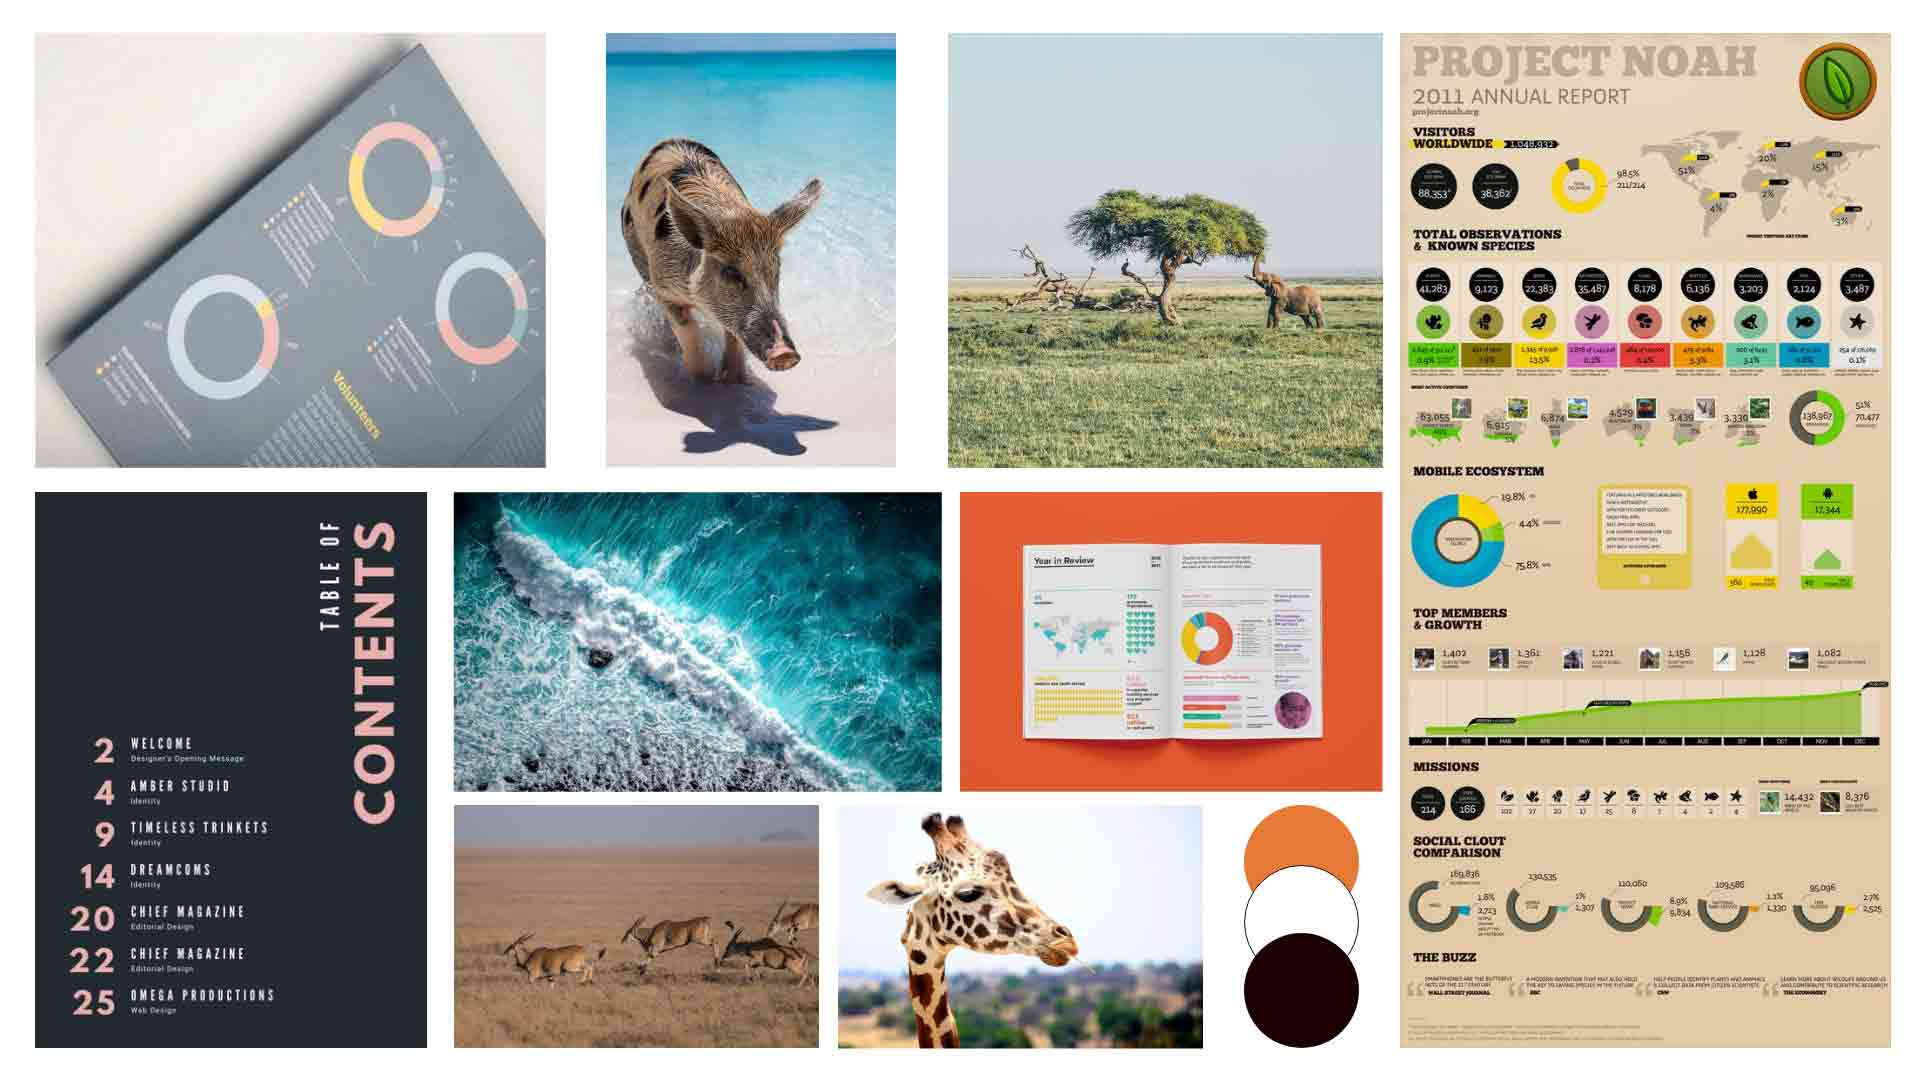
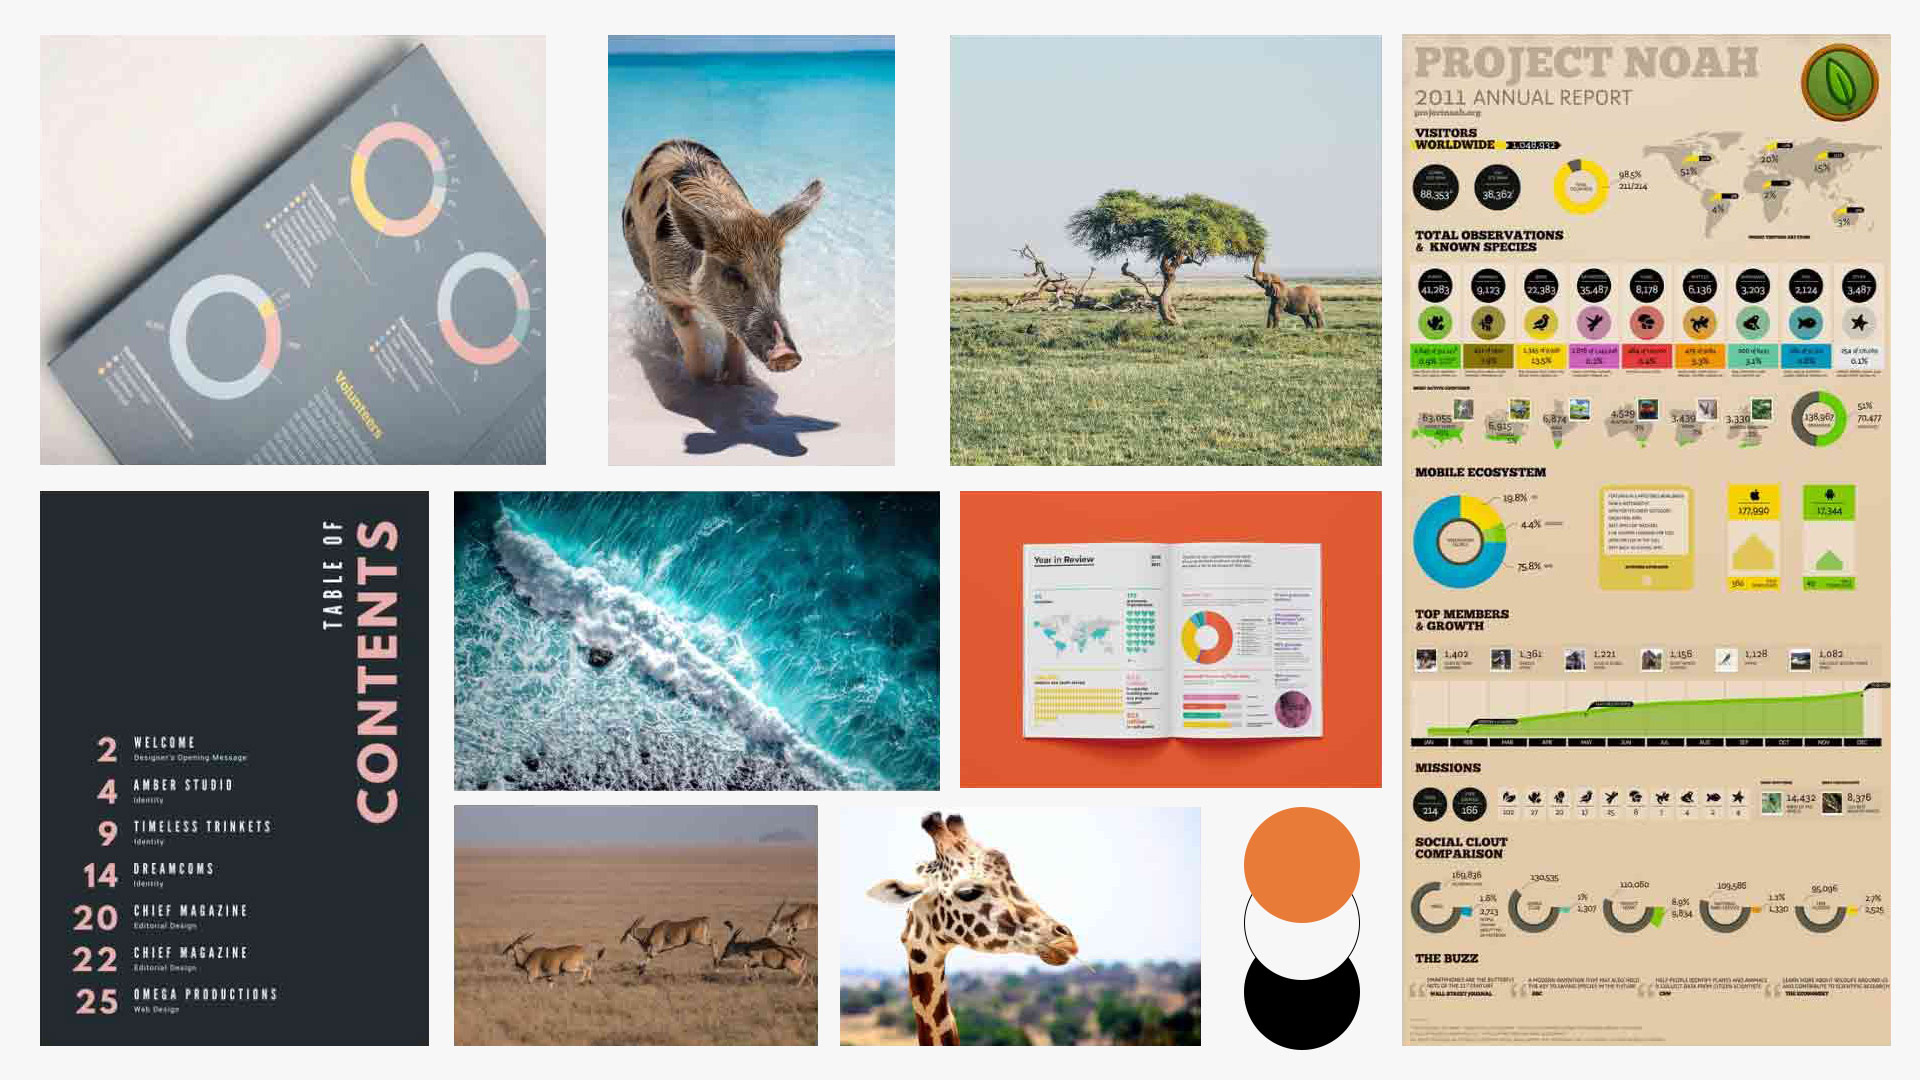
adding moodboard section

diff --git a/annual-report.html b/annual-report.html
@@ -53,6 +53,14 @@ layout: print
   </div>
 </section>
 
+<section class="gray-background">
+  <div class="wrap gutter-2 my-padding">
+    <h4 class="navy push-1-2 tera">Moodboard</h4>
+    <p class="push-0 my-padding-bottom milli gray my-max-length text-center">I developed and presented my moodboard to my team. From here, I established a style for the report that would be consistently used across all the pages.</p>
+    <img class="img-flex" src="/images/ar-mb.jpg" alt="Round two of sketches">
+  </div>
+</section>
+
 
 
 

diff --git a/web.html b/web.html
@@ -57,7 +57,7 @@ layout: web
           <p class="gray milli">My favourite part of any project is creating a logo. I ended up with something simple and to the point.</p>
         </div>
         <div class="w-80">
-          <img class="img-flex" src="/images/dog-logos.jpg" alt="">
+          <img class="img-flex w-80" src="/images/dog-logos.jpg" alt="">
         </div>
       </div>
     </section>
